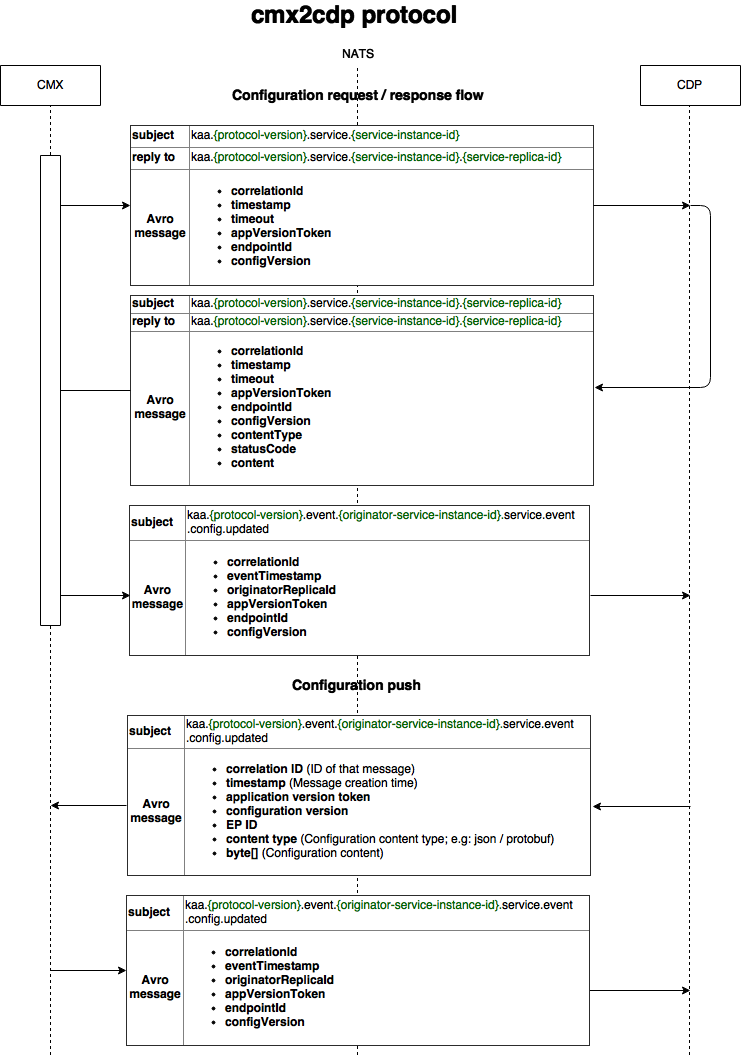
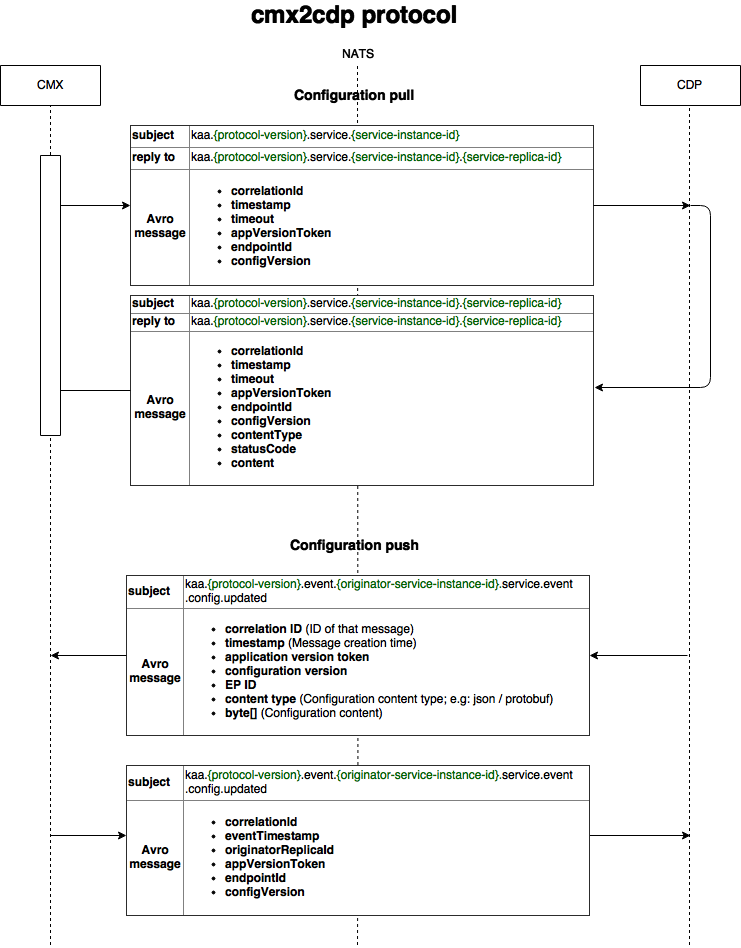
CMX-5: update readme

diff --git a/0006-cmx2cdp-protocol/README.md b/0006-cmx2cdp-protocol/README.md
@@ -10,21 +10,23 @@ editor: Andrew Pasika <apasika@cybervisiontech.com>
 The CMX2CDP protocol is a [Kaa BB: messaging IPC](/0003-messaging-ipc/README.md) protocol extension.
 
 CMX2CDP is the protocol designed to communicate endpoint configurations from configuration provider 
-implementations to the configuration management extensions
+implementations to the configuration management extensions.
 
 ## Requirements and constraints
 
 #### Problems and possible solutions
 
-1. _Configuration delivery confirmation._
-
-    Solutions:
-    - CMX should broadcast event that particular endpoint has updated its configuration to specific version.
-
-2. _Configuration push._
+1. _Configuration push._
 
     Solutions:
     - CPD should broadcast event that new configuration is available.
+
+2. _Configuration delivery confirmation after configuration push._
+
+    Solutions:
+    - CMX should broadcast event that particular endpoint has updated its configuration to specific version.
+    >**NOTE:** In case of CMX configuration pull no delivery confirmation is required since endpoint can 
+    recognise delivery fail and request its configuration again.
 
 3. _It is possible that there are two CDP instances configured to work with different 
 content types and one originator service instance. When originator service publishes config event 
@@ -33,19 +35,11 @@ message with certain content type it is consumed by both CDPs._
     Solutions:
     - CDP should filter messages by their content types.
 
-4. If endpoint asks for its configuration but there is no configuration currently available, 
-CDP should somehow inform endpoint about it.
+4. If CMX asks for endpoint configuration but there is no configuration currently available, 
+CDP should somehow inform about it.
 
     Solutions:
-    - Use status codes which encapsulate meaningful information: 
-        - 1x - **Successful.**
-            - 10 - Ok - The request has succeeded.
-        - 2x - **Client Error.**
-            - 20 - Not found - the server has not found anything matching the requested requirements.
-            - 21 - Bad request - the request could not be understood by the server due to malformed syntax.
-        - 3x - **Server Error.**
-            - 30 - Internal Server Error - The server encountered an unexpected condition which prevented it 
-            from fulfilling the request.
+    - Use HTTP status codes.
         
 
 #### Key concept
@@ -62,11 +56,11 @@ Is used when CMX is intended to request particular configuration.
 
 CMX should send message using NATS to the next subject:
 
-    kaa.v1.service.{service-instance-id}
+    kaa.v1.service.{service-instance-name}
     
 Also, CMX should include NATS `replyTo` field which points to CMX replica that will handle the response:
     
-    kaa.v1.service.{service-instance-id}.{service-replica-id}
+    kaa.v1.service.{service-instance-name}.{service-replica-id}
     
 Refer to [Messaging IPC](/0003-messaging-ipc/README.md) for explanation of above subject parts.
 
@@ -81,7 +75,7 @@ _“config-request”_ message structure:
 - `correlationId` (string, required) - refer to [Messaging IPC](/0003-messaging-ipc/README.md) documentation for description.
 - `timestamp` (number, required) - timestamp of the message creation time.
 - `timeout` (number, required) - the amount of time from timestamp that message is actual.
-- `appVersionToken` (string, required) - application version to which endpoint configuration is applicable.
+- `appVersionName` (string, required) - application version to which endpoint configuration is applicable.
 - `endpointId` (string, required) - unique identifier of endpoint to which configuration is applicable.
 - `configVersion` (int, optional) - version of endpoint configuration. If not present, response message will
 hold configuration with latest version.
@@ -93,7 +87,7 @@ Example:
   "correlationId": "07d78e95-2c4d-4899-957c-b9e5a3701fbb",
   "timestamp": 1490303342158,
   "timeout": 3000,
-  "appVersionToken": "39774993-a426-4092-9e38-02ec213272d0",
+  "appVersionName": "39774993-a426-4092-9e38-02ec213272d0",
   "endpointId": "b197e391-1d13-403b-83f5-87bdd44888cf",
   "configVersion": 7
 }
@@ -104,7 +98,7 @@ _“config-response”_ message structure:
 - `correlationId` (string, required) - see [Messaging IPC](/0003-messaging-ipc/README.md) for description.
 - `timestamp` (number, required) - timestamp of the message creation time.
 - `timeout` (number, required) - the amount of time from timestamp that message is actual.
-- `appVersionToken` (string, required) - application version to which endpoint configuration is applicable.
+- `appVersionName` (string, required) - application version to which endpoint configuration is applicable.
 - `endpointId` (string, required) - endpoint unique identifier to which configuration is applicable.
 - `contentType` (string, required) - content type of configuration, e.g.: json, protobuf.
 - `configVersion` (int, required) - version of endpoint configuration.
@@ -118,7 +112,7 @@ Example:
   "correlationId": "07d78e95-2c4d-4899-957c-b9e5a3701fbb",
   "timestamp": 1490303342158,
   "timeout": 3000,
-  "appVersionToken": "39774993-a426-4092-9e38-02ec213272d0",
+  "appVersionName": "39774993-a426-4092-9e38-02ec213272d0",
   "endpointId": "b197e391-1d13-403b-83f5-87bdd44888cf",
   "configVersion": 7,
   "statusCode": 0,
@@ -149,7 +143,7 @@ configuration.
 
 _“updated”_ message structure:
 
-- `appVersionToken` (string, required) - application version to which endpoint configuration is applicable.
+- `appVersionName` (string, required) - application version to which endpoint configuration is applicable.
 - `endpointId` (string, required) - unique identifier of endpoint to which configuration is applicable.
 - `configVersion` (string, required) - version of endpoint configuration.
 
@@ -160,7 +154,7 @@ Example:
   "correlationId": "6fd9b270-2b74-428b-a86f-fee018b932f0",
   "eventTimestamp": 1490350896332,
   "originatorReplicaId": "1758dc39-63d2-47d0-9b58-6f617a4e0bba",
-  "appVersionToken": "39774993-a426-4092-9e38-02ec213272d0",
+  "appVersionName": "39774993-a426-4092-9e38-02ec213272d0",
   "endpointId": "b197e391-1d13-403b-83f5-87bdd44888cf",
   "configVersion": 7
 }
@@ -168,7 +162,7 @@ Example:
 
 _“new-available”_ message structure:
 
-- `appVersionToken` (string, required) - application version to which endpoint configuration is applicable.
+- `appVersionName` (string, required) - application version to which endpoint configuration is applicable.
 - `endpointId` (string, required) - endpoint unique identifier to which configuration is applicable.
 - `configVersion` (string, required) - version of endpoint configuration.
 - `contentType` (string, required) - content type of endpoint configuration, e.g.: json, protobuf.
@@ -181,7 +175,7 @@ Example:
   "correlationId": "0fce883f-1104-4da7-8a35-e790ecced6ac",
   "eventTimestamp": 1490351044418,
   "originatorReplicaId": "3b823589-d90b-497e-91f8-0209ecaef908",
-  "appVersionToken": "39774993-a426-4092-9e38-02ec213272d0",
+  "appVersionName": "39774993-a426-4092-9e38-02ec213272d0",
   "endpointId": "b197e391-1d13-403b-83f5-87bdd44888cf",
   "configVersion": 7,
   "content": {
